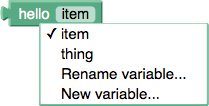
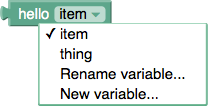
Fix path issue in CSS. Fix deletion ofter drag to flyout (issue 125). Fix 'create do procedure' with arguments (issue 123). Update wiki images with new dropdown arrows. Review URL: https://codereview.appspot.com/7772043

diff --git a/trunk/blockly_compressed.js b/trunk/blockly_compressed.js
@@ -666,8 +666,8 @@ b.comment.isPinned()&&b.comment.setVisible(!0)}return a};Blockly.ConnectionDB=fu
 Blockly.ConnectionDB.prototype.removeConnection_=function(a){if(!a.inDB_)throw"Connection not in database.";a.inDB_=!1;for(var b=0,c=this.length-2,d=c;b<d;)this[d].y_<a.y_?b=d:c=d,d=Math.floor((b+c)/2);for(c=b=d;0<=b&&this[b].y_==a.y_;){if(this[b]==a){this.splice(b,1);return}b--}do{if(this[c]==a){this.splice(c,1);return}c++}while(c<this.length&&this[c].y_==a.y_);throw"Unable to find connection in connectionDB.";};
 Blockly.ConnectionDB.init=function(a){var b=[];b[Blockly.INPUT_VALUE]=new Blockly.ConnectionDB;b[Blockly.OUTPUT_VALUE]=new Blockly.ConnectionDB;b[Blockly.NEXT_STATEMENT]=new Blockly.ConnectionDB;b[Blockly.PREVIOUS_STATEMENT]=new Blockly.ConnectionDB;a.connectionDBList=b};Blockly.Field=function(a){this.sourceBlock_=null;this.group_=Blockly.createSvgElement("g",{},null);this.borderRect_=Blockly.createSvgElement("rect",{rx:4,ry:4,x:-Blockly.BlockSvg.SEP_SPACE_X/2,y:-12,height:16},this.group_);this.textElement_=Blockly.createSvgElement("text",{"class":"blocklyText"},this.group_);this.CURSOR&&(this.group_.style.cursor=this.CURSOR);this.size_={height:25,width:0};this.setText(a)};Blockly.Field.NBSP="\u00a0";Blockly.Field.prototype.EDITABLE=!0;
 Blockly.Field.prototype.init=function(a){if(this.sourceBlock_)throw"Field has already been initialized once.";this.sourceBlock_=a;this.group_.setAttribute("class",a.editable?"blocklyEditableText":"blocklyNonEditableText");a.getSvgRoot().appendChild(this.group_);a.editable&&(this.mouseUpWrapper_=Blockly.bindEvent_(this.group_,"mouseup",this,this.onMouseUp_));this.setText(null)};
-Blockly.Field.prototype.dispose=function(){this.mouseUpWrapper_&&(Blockly.unbindEvent_(this.mouseUpWrapper_),this.mouseUpWrapper_=null);this.sourceBlock_=null;goog.dom.removeNode(this.group_);this.borderRect_=this.textElement_=this.group_=null};Blockly.Field.prototype.setVisible=function(a){this.getRootElement().style.display=a?"block":"none"};Blockly.Field.prototype.getRootElement=function(){return this.group_};Blockly.Field.textLengthCache={};
-Blockly.Field.prototype.render_=function(){if(Blockly.Field.textLengthCache.hasOwnProperty(this.text_))var a=Blockly.Field.textLengthCache[this.text_];else(a=this.textElement_.getComputedTextLength())&&(Blockly.Field.textLengthCache[this.text_]=a);this.borderRect_&&this.borderRect_.setAttribute("width",a+Blockly.BlockSvg.SEP_SPACE_X);this.size_.width=a};Blockly.Field.prototype.getSize=function(){this.size_.width||this.render_();return this.size_};Blockly.Field.prototype.getText=function(){return this.text_};
+Blockly.Field.prototype.dispose=function(){this.mouseUpWrapper_&&(Blockly.unbindEvent_(this.mouseUpWrapper_),this.mouseUpWrapper_=null);this.sourceBlock_=null;goog.dom.removeNode(this.group_);this.borderRect_=this.textElement_=this.group_=null};Blockly.Field.prototype.setVisible=function(a){this.getRootElement().style.display=a?"block":"none"};Blockly.Field.prototype.getRootElement=function(){return this.group_};
+Blockly.Field.prototype.render_=function(){var a=this.textElement_.getComputedTextLength();this.borderRect_&&this.borderRect_.setAttribute("width",a+Blockly.BlockSvg.SEP_SPACE_X);this.size_.width=a};Blockly.Field.prototype.getSize=function(){this.size_.width||this.render_();return this.size_};Blockly.Field.prototype.getText=function(){return this.text_};
 Blockly.Field.prototype.setText=function(a){null!==a&&(this.text_=a,goog.dom.removeChildren(this.textElement_),a=a.replace(/\s/g,Blockly.Field.NBSP),a||(a=Blockly.Field.NBSP),a=document.createTextNode(a),this.textElement_.appendChild(a),this.size_.width=0,this.sourceBlock_&&this.sourceBlock_.rendered&&(this.sourceBlock_.render(),this.sourceBlock_.bumpNeighbours_(),this.sourceBlock_.workspace.fireChangeEvent()))};Blockly.Field.prototype.getValue=function(){return this.getText()};
 Blockly.Field.prototype.setValue=function(a){this.setText(a)};Blockly.Field.prototype.onMouseUp_=function(a){Blockly.isRightButton(a)||2!=Blockly.Block.dragMode_&&this.showEditor_()};Blockly.Field.prototype.setTooltip=function(){};Blockly.Tooltip={};Blockly.Tooltip.visible=!1;Blockly.Tooltip.mouseOutPid_=0;Blockly.Tooltip.showPid_=0;Blockly.Tooltip.lastX_=0;Blockly.Tooltip.lastY_=0;Blockly.Tooltip.element_=null;Blockly.Tooltip.poisonedElement_=null;Blockly.Tooltip.svgGroup_=null;Blockly.Tooltip.svgText_=null;Blockly.Tooltip.svgBackground_=null;Blockly.Tooltip.svgShadow_=null;Blockly.Tooltip.OFFSET_X=0;Blockly.Tooltip.OFFSET_Y=10;Blockly.Tooltip.RADIUS_OK=10;Blockly.Tooltip.HOVER_MS=1E3;Blockly.Tooltip.MARGINS=5;
 Blockly.Tooltip.createDom=function(){var a=Blockly.createSvgElement("g",{"class":"blocklyHidden"},null);Blockly.Tooltip.svgGroup_=a;Blockly.Tooltip.svgShadow_=Blockly.createSvgElement("rect",{"class":"blocklyTooltipShadow",x:2,y:2},a);Blockly.Tooltip.svgBackground_=Blockly.createSvgElement("rect",{"class":"blocklyTooltipBackground"},a);Blockly.Tooltip.svgText_=Blockly.createSvgElement("text",{"class":"blocklyTooltipText"},a);return a};
@@ -718,7 +718,7 @@ Blockly.ContextMenu.show=function(a,b,c){if(c.length){goog.dom.removeChildren(Bl
 null,Blockly.noEvent);g.enabled?(Blockly.bindEvent_(h,"mouseup",null,g.callback),Blockly.bindEvent_(h,"mouseup",null,Blockly.ContextMenu.hide)):h.setAttribute("class","blocklyMenuDivDisabled");d=Math.max(d,k.getComputedTextLength())}d+=2*Blockly.ContextMenu.X_PADDING;for(f=0;f<e.length;f++)e[f].setAttribute("width",d);if(Blockly.RTL)for(f=0;h=Blockly.ContextMenu.svgOptions.childNodes[f];f++)k=h.lastChild,k.setAttribute("text-anchor","end"),k.setAttribute("x",d-Blockly.ContextMenu.X_PADDING);Blockly.ContextMenu.svgBackground.setAttribute("height",
 c.length*Blockly.ContextMenu.Y_HEIGHT+8);Blockly.ContextMenu.svgShadow.setAttribute("height",c.length*Blockly.ContextMenu.Y_HEIGHT+10);b=Blockly.convertCoordinates(a,b,!0);a=b.x;b=b.y;c=Blockly.ContextMenu.svgGroup.getBBox();d=Blockly.svgSize();b+c.height>d.height&&(b-=c.height-10);Blockly.RTL?0>=a-c.width?a++:a-=c.width:a+c.width>d.width?a-=c.width:a++;Blockly.ContextMenu.svgGroup.setAttribute("transform","translate("+a+", "+b+")");Blockly.ContextMenu.visible=!0}else Blockly.ContextMenu.hide()};
 Blockly.ContextMenu.optionToDom=function(a){var b=Blockly.createSvgElement("g",{"class":"blocklyMenuDiv"},null);Blockly.createSvgElement("rect",{height:Blockly.ContextMenu.Y_HEIGHT},b);var c=Blockly.createSvgElement("text",{"class":"blocklyMenuText",x:Blockly.ContextMenu.X_PADDING,y:15},b);a=document.createTextNode(a);c.appendChild(a);return b};Blockly.ContextMenu.hide=function(){Blockly.ContextMenu.visible&&(Blockly.ContextMenu.svgGroup.style.display="none",Blockly.ContextMenu.visible=!1)};
-Blockly.ContextMenu.callbackFactory=function(a,b,c,d){return function(){var e=new Blockly.Block(a.workspace,b);e.setTitleValue(d,c);e.initSvg();e.render();var f=a.getRelativeToSurfaceXY();f.x=Blockly.RTL?f.x-Blockly.SNAP_RADIUS:f.x+Blockly.SNAP_RADIUS;f.y+=2*Blockly.SNAP_RADIUS;e.moveBy(f.x,f.y);e.select()}};Blockly.Warning=function(a){this.block_=a;this.createIcon_()};Blockly.Warning.ICON_RADIUS=8;Blockly.Warning.prototype.bubble_=null;Blockly.Warning.prototype.text_="";Blockly.Warning.prototype.iconX_=0;Blockly.Warning.prototype.iconY_=0;
+Blockly.ContextMenu.callbackFactory=function(a,b){return function(){var c=Blockly.Xml.domToBlock_(a.workspace,b),d=a.getRelativeToSurfaceXY();d.x=Blockly.RTL?d.x-Blockly.SNAP_RADIUS:d.x+Blockly.SNAP_RADIUS;d.y+=2*Blockly.SNAP_RADIUS;c.moveBy(d.x,d.y);c.select()}};Blockly.Warning=function(a){this.block_=a;this.createIcon_()};Blockly.Warning.ICON_RADIUS=8;Blockly.Warning.prototype.bubble_=null;Blockly.Warning.prototype.text_="";Blockly.Warning.prototype.iconX_=0;Blockly.Warning.prototype.iconY_=0;
 Blockly.Warning.prototype.createIcon_=function(){this.iconGroup_=Blockly.createSvgElement("g",{"class":"blocklyIconGroup"},null);Blockly.createSvgElement("path",{"class":"blocklyIconShield",d:"M 2,15 Q -1,15 0.5,12 L 6.5,1.7 Q 8,-1 9.5,1.7 L 15.5,12 Q 17,15 14,15 z"},this.iconGroup_);this.iconMark_=Blockly.createSvgElement("text",{"class":"blocklyIconMark",x:Blockly.Warning.ICON_RADIUS,y:2*Blockly.Warning.ICON_RADIUS-3},this.iconGroup_);this.iconMark_.appendChild(document.createTextNode("!"));this.block_.getSvgRoot().appendChild(this.iconGroup_);
 Blockly.bindEvent_(this.iconGroup_,"mouseup",this,this.iconClick_)};Blockly.Warning.prototype.textToDom_=function(a){var b=Blockly.createSvgElement("text",{"class":"blocklyText",y:Blockly.Bubble.BORDER_WIDTH},null);a=a.split("\n");for(var c=0;c<a.length;c++){var d=Blockly.createSvgElement("tspan",{dy:"1em",x:Blockly.Bubble.BORDER_WIDTH},b),e=document.createTextNode(a[c]);d.appendChild(e)}return b};Blockly.Warning.prototype.isVisible=function(){return!!this.bubble_};
 Blockly.Warning.prototype.setVisible=function(a){if(a!=this.isVisible())if(a){a=this.textToDom_(this.text_);this.bubble_=new Blockly.Bubble(this.block_.workspace,a,this.block_.svg_.svgGroup_,this.iconX_,this.iconY_,null,null);if(Blockly.RTL)for(var b=a.getBBox().width,c=0,d;d=a.childNodes[c];c++)d.setAttribute("text-anchor","end"),d.setAttribute("x",b+Blockly.Bubble.BORDER_WIDTH);this.updateColour();a=this.bubble_.getBubbleSize();this.bubble_.setBubbleSize(a.width,a.height)}else this.bubble_.dispose(),
@@ -773,7 +773,7 @@ Blockly.Generator.workspaceToCode=function(a){var b=[];a=Blockly.Generator.get(a
 Blockly.Generator.allNestedComments=function(a){var b=[];a=a.getDescendants();for(var c=0;c<a.length;c++){var d=a[c].getCommentText();d&&b.push(d)}b.length&&b.push("");return b.join("\n")};Blockly.CodeGenerator=function(a){this.name_=a;this.RESERVED_WORDS_=""};
 Blockly.CodeGenerator.prototype.blockToCode=function(a){if(!a)return"";if(a.disabled)return a=a.nextConnection&&a.nextConnection.targetBlock(),this.blockToCode(a);var b=this[a.type];if(!b)throw'Language "'+this.name_+'" does not know how to generate code for block type "'+a.type+'".';b=b.call(a);return b instanceof Array?[this.scrub_(a,b[0]),b[1]]:this.scrub_(a,b)};
 Blockly.CodeGenerator.prototype.valueToCode=function(a,b,c){if(isNaN(c))throw'Expecting valid order from block "'+a.type+'".';a=a.getInputTargetBlock(b);if(!a)return"";var d=this.blockToCode(a);if(""===d)return"";if(!(d instanceof Array))throw'Expecting tuple from value block "'+a.type+'".';b=d[0];d=d[1];if(isNaN(d))throw'Expecting valid order from value block "'+a.type+'".';b&&c<=d&&(b="("+b+")");return b};
-Blockly.CodeGenerator.prototype.statementToCode=function(a,b){var c=a.getInputTargetBlock(b),d=this.blockToCode(c);if(!goog.isString(d))throw'Expecting code from statement block "'+c.type+'".';d&&(d=Blockly.Generator.prefixLines(d,"  "));return d};Blockly.CodeGenerator.prototype.addReservedWords=function(a){this.RESERVED_WORDS_+=a+","};Blockly.Css={};Blockly.Css.inject=function(){var a=Blockly.Css.CONTENT.join("\n"),a=a.replace(/<<<PATH>>>/g,Blockly.pathToBlockly);goog.cssom.addCssText(a)};
+Blockly.CodeGenerator.prototype.statementToCode=function(a,b){var c=a.getInputTargetBlock(b),d=this.blockToCode(c);if(!goog.isString(d))throw'Expecting code from statement block "'+c.type+'".';d&&(d=Blockly.Generator.prefixLines(d,"  "));return d};Blockly.CodeGenerator.prototype.addReservedWords=function(a){this.RESERVED_WORDS_+=a+","};Blockly.Css={};Blockly.Css.inject=function(){var a=Blockly.Css.CONTENT.join("\n");Blockly.pathToBlockly.replace(/[\\\/]$/,"");a=a.replace(/<<<PATH>>>/g,Blockly.pathToBlockly);goog.cssom.addCssText(a)};
 Blockly.Css.CONTENT=[".blocklySvg {","  background-color: #fff;","}",".blocklyWidgetDiv {","  position: absolute;","  display: none;","  z-index: 999;","}",".blocklyDraggable {","  /* Hotspot coordinates are baked into the CUR file, but they are still","     required in the CSS due to a Chrome bug.","     http://code.google.com/p/chromium/issues/detail?id=1446 */","  cursor: url(<<<PATH>>>/media/handopen.cur) 8 5, auto;","}",".blocklyResizeSE {","  fill: #aaa;","  cursor: se-resize;","}",".blocklyResizeSW {",
 "  fill: #aaa;","  cursor: sw-resize;","}",".blocklyResizeLine {","  stroke-width: 1;","  stroke: #888;","}",".blocklyHighlightedConnectionPath {","  stroke-width: 4px;","  stroke: #fc3;","  fill: none;","}",".blocklyPathLight {","  fill: none;","  stroke-width: 2;","  stroke-linecap: round;","}",".blocklySelected>.blocklyPath {","  stroke-width: 3px;","  stroke: #fc3;","}",".blocklySelected>.blocklyPathLight {","  display: none;","}",".blocklyDragging>.blocklyPath,",".blocklyDragging>.blocklyPathLight {",
 "  fill-opacity: 0.8;","  stroke-opacity: 0.8;","}",".blocklyDragging>.blocklyPathDark {","  display: none;","}",".blocklyDisabled>.blocklyPath {","  fill-opacity: 0.50;","  stroke-opacity: 0.50;","}",".blocklyDisabled>.blocklyPathLight,",".blocklyDisabled>.blocklyPathDark {","  display: none;","}",".blocklyText {","  cursor: default;","  font-family: sans-serif;","  font-size: 11pt;","  fill: #fff;","}",".blocklyNonEditableText>text {","  pointer-events: none;","}",".blocklyNonEditableText>rect,",
@@ -793,10 +793,10 @@ Blockly.parseOptions_=function(a){var b=!a.readOnly;if(b){var c=a.toolbox||"<xml
 Blockly.createDom_=function(a){a.setAttribute("dir","LTR");goog.ui.Component.setDefaultRightToLeft(Blockly.RTL);Blockly.Css.inject();var b=Blockly.createSvgElement("svg",{xmlns:"http://www.w3.org/2000/svg","xmlns:html":"http://www.w3.org/1999/xhtml","xmlns:xlink":"http://www.w3.org/1999/xlink",version:"1.1","class":"blocklySvg"},null),c=Blockly.createSvgElement("defs",{},b),d,e;d=Blockly.createSvgElement("filter",{id:"blocklyEmboss"},c);Blockly.createSvgElement("feGaussianBlur",{"in":"SourceAlpha",
 stdDeviation:1,result:"blur"},d);e=Blockly.createSvgElement("feSpecularLighting",{"in":"blur",surfaceScale:1,specularConstant:0.5,specularExponent:10,"lighting-color":"white",result:"specOut"},d);Blockly.createSvgElement("fePointLight",{x:-5E3,y:-1E4,z:2E4},e);Blockly.createSvgElement("feComposite",{"in":"specOut",in2:"SourceAlpha",operator:"in",result:"specOut"},d);Blockly.createSvgElement("feComposite",{"in":"SourceGraphic",in2:"specOut",operator:"arithmetic",k1:0,k2:1,k3:1,k4:0},d);d=Blockly.createSvgElement("filter",
 {id:"blocklyTrashcanShadowFilter"},c);Blockly.createSvgElement("feGaussianBlur",{"in":"SourceAlpha",stdDeviation:2,result:"blur"},d);Blockly.createSvgElement("feOffset",{"in":"blur",dx:1,dy:1,result:"offsetBlur"},d);d=Blockly.createSvgElement("feMerge",{},d);Blockly.createSvgElement("feMergeNode",{"in":"offsetBlur"},d);Blockly.createSvgElement("feMergeNode",{"in":"SourceGraphic"},d);d=Blockly.createSvgElement("filter",{id:"blocklyShadowFilter"},c);Blockly.createSvgElement("feGaussianBlur",{stdDeviation:2},
-d);c=Blockly.createSvgElement("pattern",{id:"blocklyDisabledPattern",patternUnits:"userSpaceOnUse",width:10,height:10},c);Blockly.createSvgElement("rect",{width:10,height:10,fill:"#aaa"},c);Blockly.createSvgElement("path",{d:"M 0 0 L 10 10 M 10 0 L 0 10",stroke:"#cc0"},c);Blockly.mainWorkspace=new Blockly.Workspace(Blockly.editable);b.appendChild(Blockly.mainWorkspace.createDom());Blockly.mainWorkspace.maxBlocks=Blockly.maxBlocks;Blockly.editable?Blockly.Toolbox?Blockly.Toolbox.createDom(b,a):(Blockly.mainWorkspace.flyout_=
-new Blockly.Flyout,c=Blockly.mainWorkspace.flyout_.createDom(),Blockly.mainWorkspace.flyout_.init(Blockly.mainWorkspace,Blockly.getMainWorkspaceMetrics,!0),Blockly.mainWorkspace.flyout_.autoClose=!1,goog.dom.insertSiblingBefore(c,Blockly.mainWorkspace.svgGroup_),Blockly.bindEvent_(Blockly.mainWorkspace.getCanvas(),"blocklyWorkspaceChange",Blockly.mainWorkspace,function(){if(0==Blockly.Block.dragMode_)for(var a=Blockly.getTopBlocks(!1),b=Blockly.svgSize(),c=0,d;d=a[c];c++){var e=d.getRelativeToSurfaceXY(),
-l=d.getSvgRoot().getBBox();(e.y<10-l.height||(Blockly.RTL?e.x>b.width-Blockly.flyout_.width_+10:e.x<Blockly.flyout_.width_-10)||e.y>b.height-10||(Blockly.RTL?10>e.x:e.x>b.width-10))&&d.dispose(!1,!0)}})):(delete Blockly.Toolbox,delete Blockly.Flyout);Blockly.Tooltip&&b.appendChild(Blockly.Tooltip.createDom());Blockly.editable&&Blockly.FieldDropdown&&b.appendChild(Blockly.FieldDropdown.createDom());Blockly.ContextMenu&&Blockly.ContextMenu&&b.appendChild(Blockly.ContextMenu.createDom());a.appendChild(b);
-Blockly.svg=b;Blockly.svgResize();Blockly.widgetDiv=goog.dom.createDom("div",{"class":"blocklyWidgetDiv"});a.appendChild(Blockly.widgetDiv)};
+d);c=Blockly.createSvgElement("pattern",{id:"blocklyDisabledPattern",patternUnits:"userSpaceOnUse",width:10,height:10},c);Blockly.createSvgElement("rect",{width:10,height:10,fill:"#aaa"},c);Blockly.createSvgElement("path",{d:"M 0 0 L 10 10 M 10 0 L 0 10",stroke:"#cc0"},c);Blockly.mainWorkspace=new Blockly.Workspace(Blockly.editable);b.appendChild(Blockly.mainWorkspace.createDom());Blockly.mainWorkspace.maxBlocks=Blockly.maxBlocks;if(Blockly.editable)if(Blockly.Toolbox)Blockly.Toolbox.createDom(b,
+a);else{Blockly.mainWorkspace.flyout_=new Blockly.Flyout;var f=Blockly.mainWorkspace.flyout_,c=f.createDom();f.init(Blockly.mainWorkspace,Blockly.getMainWorkspaceMetrics,!0);f.autoClose=!1;goog.dom.insertSiblingBefore(c,Blockly.mainWorkspace.svgGroup_);Blockly.bindEvent_(Blockly.mainWorkspace.getCanvas(),"blocklyWorkspaceChange",Blockly.mainWorkspace,function(){if(0==Blockly.Block.dragMode_)for(var a=Blockly.svgSize(),b=Blockly.mainWorkspace.getTopBlocks(!1),c=0,d;d=b[c];c++){var e=d.getRelativeToSurfaceXY(),
+m=d.getSvgRoot().getBBox();(e.y<10-m.height||(Blockly.RTL?e.x>a.width-f.width_+10:e.x<f.width_-10)||e.y>a.height-10||(Blockly.RTL?10>e.x:e.x>a.width-10))&&d.dispose(!1,!0)}})}else delete Blockly.Toolbox,delete Blockly.Flyout;Blockly.Tooltip&&b.appendChild(Blockly.Tooltip.createDom());Blockly.editable&&Blockly.FieldDropdown&&b.appendChild(Blockly.FieldDropdown.createDom());Blockly.ContextMenu&&Blockly.ContextMenu&&b.appendChild(Blockly.ContextMenu.createDom());a.appendChild(b);Blockly.svg=b;Blockly.svgResize();
+Blockly.widgetDiv=goog.dom.createDom("div",{"class":"blocklyWidgetDiv"});a.appendChild(Blockly.widgetDiv)};
 Blockly.init_=function(){Blockly.bindEvent_(window,"resize",document,Blockly.svgResize);Blockly.bindEvent_(Blockly.svg,"mousedown",null,Blockly.onMouseDown_);Blockly.bindEvent_(document,"mouseup",null,Blockly.onMouseUp_);Blockly.bindEvent_(Blockly.svg,"mousemove",null,Blockly.onMouseMove_);Blockly.bindEvent_(Blockly.svg,"contextmenu",null,Blockly.onContextMenu_);Blockly.bindEvent_(document,"keydown",null,Blockly.onKeyDown_);var a=!0;Blockly.languageTree&&(Blockly.Toolbox?Blockly.Toolbox.init():Blockly.Flyout&&
 (Blockly.mainWorkspace.flyout_.init(Blockly.mainWorkspace,Blockly.getMainWorkspaceMetrics,!0),Blockly.mainWorkspace.flyout_.show(Blockly.languageTree.childNodes),a=!1));a&&(Blockly.mainWorkspace.scrollbar=new Blockly.ScrollbarPair(Blockly.mainWorkspace.getBubbleCanvas(),Blockly.getMainWorkspaceMetrics,Blockly.setMainWorkspaceMetrics));Blockly.mainWorkspace.addTrashcan(Blockly.getMainWorkspaceMetrics);Blockly.loadAudio_("click");Blockly.loadAudio_("delete")};Blockly.FieldCheckbox=function(a,b){Blockly.FieldCheckbox.superClass_.constructor.call(this,"");this.changeHandler_=b;this.checkElement_=Blockly.createSvgElement("text",{"class":"blocklyText",x:-3},this.group_);var c=document.createTextNode("\u2713");this.checkElement_.appendChild(c);this.setValue(a)};goog.inherits(Blockly.FieldCheckbox,Blockly.Field);Blockly.FieldCheckbox.prototype.CURSOR="default";Blockly.FieldCheckbox.prototype.getValue=function(){return String(this.state_).toUpperCase()};
 Blockly.FieldCheckbox.prototype.setValue=function(a){a="TRUE"==a;this.state_!==a&&(this.state_=a,this.checkElement_.style.display=a?"block":"none",this.sourceBlock_&&this.sourceBlock_.rendered&&this.sourceBlock_.workspace.fireChangeEvent())};Blockly.FieldCheckbox.prototype.showEditor_=function(){var a=!this.state_;if(this.changeHandler_){var b=this.changeHandler_(a);void 0!==b&&(a=b)}null!==a&&this.setValue(String(a).toUpperCase())};Blockly.FieldColour=function(a,b){Blockly.FieldColour.superClass_.constructor.call(this,"\u00a0\u00a0\u00a0");this.changeHandler_=b;this.borderRect_.style.fillOpacity=1;this.setValue(a)};goog.inherits(Blockly.FieldColour,Blockly.Field);Blockly.FieldColour.isOpen_=!1;Blockly.FieldColour.prototype.CURSOR="default";Blockly.FieldColour.prototype.getValue=function(){return this.colour_};

diff --git a/trunk/core/inject.js b/trunk/core/inject.js
@@ -200,7 +200,6 @@ Blockly.createDom_ = function(container) {
     // Determine if there needs to be a category tree, or a simple list of
     // blocks.  This cannot be changed later, since the UI is very different.
     if (Blockly.Toolbox) {
-      // TODO(scr): When Toolbox is a component, remove this line.
       Blockly.Toolbox.createDom(svg, container);
     } else {
       /**
@@ -208,25 +207,26 @@ Blockly.createDom_ = function(container) {
        * @private
        */
       Blockly.mainWorkspace.flyout_ = new Blockly.Flyout();
-      var flyoutSvg = Blockly.mainWorkspace.flyout_.createDom();
-      Blockly.mainWorkspace.flyout_.init(Blockly.mainWorkspace,
+      var flyout = Blockly.mainWorkspace.flyout_;
+      var flyoutSvg = flyout.createDom();
+      flyout.init(Blockly.mainWorkspace,
           Blockly.getMainWorkspaceMetrics, true);
-      Blockly.mainWorkspace.flyout_.autoClose = false;
+      flyout.autoClose = false;
       // Insert the flyout behind the workspace so that blocks appear on top.
       goog.dom.insertSiblingBefore(flyoutSvg, Blockly.mainWorkspace.svgGroup_);
       var workspaceChanged = function() {
         // Delete any block that's sitting on top of the flyout, or off window.
         if (Blockly.Block.dragMode_ == 0) {
-          var blocks = Blockly.getTopBlocks(false);
           var svgSize = Blockly.svgSize();
           var MARGIN = 10;
+          var blocks = Blockly.mainWorkspace.getTopBlocks(false);
           for (var b = 0, block; block = blocks[b]; b++) {
             var xy = block.getRelativeToSurfaceXY();
             var bBox = block.getSvgRoot().getBBox();
             if ((xy.y < MARGIN - bBox.height) ||  // Off the top.
                 (Blockly.RTL ?
-                 xy.x > svgSize.width - Blockly.flyout_.width_ + MARGIN :
-                 xy.x < Blockly.flyout_.width_ - MARGIN) ||  // Over the flyout.
+                 xy.x > svgSize.width - flyout.width_ + MARGIN :
+                 xy.x < flyout.width_ - MARGIN) ||  // Over the flyout.
                 (xy.y > svgSize.height - MARGIN) ||  // Off the bottom.
                 (Blockly.RTL ? xy.x < MARGIN :
                  xy.x > svgSize.width - MARGIN)  // Off the far edge.

diff --git a/trunk/language/common/procedures.js b/trunk/language/common/procedures.js
@@ -163,16 +163,29 @@ Blockly.Language.procedures_defnoreturn = {
     var option = {enabled: true};
     var name = this.getTitleValue('NAME');
     option.text = Blockly.LANG_PROCEDURES_CREATE_DO.replace('%1', name);
-    option.callback = Blockly.ContextMenu.callbackFactory(this,
-        this.callType_, 'NAME', name);
+
+    var xmlMutation = goog.dom.createDom('mutation');
+    xmlMutation.setAttribute('name', name);
+    for (var x = 0; x < this.arguments_.length; x++) {
+      var xmlArg = goog.dom.createDom('arg');
+      xmlArg.setAttribute('name', this.arguments_[x]);
+      xmlMutation.appendChild(xmlArg);
+    }
+    var xmlBlock = goog.dom.createDom('block', null, xmlMutation);
+    xmlBlock.setAttribute('type', this.callType_);
+    option.callback = Blockly.ContextMenu.callbackFactory(this, xmlBlock);
+
     options.push(option);
     // Add options to create getters for each parameter.
     for (var x = 0; x < this.arguments_.length; x++) {
       var option = {enabled: true};
       var name = this.arguments_[x];
       option.text = Blockly.LANG_VARIABLES_SET_CREATE_GET.replace('%1', name);
-      option.callback = Blockly.ContextMenu.callbackFactory(this,
-          'variables_get', 'VAR', name);
+      var xmlTitle = goog.dom.createDom('title', null, name);
+      xmlTitle.setAttribute('name', 'VAR');
+      var xmlBlock = goog.dom.createDom('block', null, xmlTitle);
+      xmlBlock.setAttribute('type', 'variables_get');
+      option.callback = Blockly.ContextMenu.callbackFactory(this, xmlBlock);
       options.push(option);
     }
   },

diff --git a/trunk/language/common/variables.js b/trunk/language/common/variables.js
@@ -48,12 +48,17 @@ Blockly.Language.variables_get = {
       this.setTitleValue(newName, 'VAR');
     }
   },
+  contextMenuMsg_: Blockly.LANG_VARIABLES_GET_CREATE_SET,
+  contextMenuType_: 'variables_set',
   customContextMenu: function(options) {
     var option = {enabled: true};
     var name = this.getTitleValue('VAR');
-    option.text = Blockly.LANG_VARIABLES_GET_CREATE_SET.replace('%1', name);
-    option.callback = Blockly.ContextMenu.callbackFactory(this,
-        'variables_set', 'VAR', name);
+    option.text = this.contextMenuMsg_.replace('%1', name);
+    var xmlTitle = goog.dom.createDom('title', null, name);
+    xmlTitle.setAttribute('name', 'VAR');
+    var xmlBlock = goog.dom.createDom('block', null, xmlTitle);
+    xmlBlock.setAttribute('type', 'variables_set');
+    option.callback = Blockly.ContextMenu.callbackFactory(this, xmlBlock);
     options.push(option);
   }
 };
@@ -80,12 +85,7 @@ Blockly.Language.variables_set = {
       this.setTitleValue(newName, 'VAR');
     }
   },
-  customContextMenu: function(options) {
-    var option = {enabled: true};
-    var name = this.getTitleValue('VAR');
-    option.text = Blockly.LANG_VARIABLES_SET_CREATE_GET.replace('%1', name);
-    option.callback = Blockly.ContextMenu.callbackFactory(this,
-        'variables_get', 'VAR', name);
-    options.push(option);
-  }
+  contextMenuMsg_: Blockly.LANG_VARIABLES_GET_CREATE_GET,
+  contextMenuType_: 'variables_get',
+  customContextMenu: Blockly.Language.variables_get.customContextMenu
 };

diff --git a/trunk/language/common/control.js b/trunk/language/common/control.js
@@ -305,8 +305,11 @@ Blockly.Language.controls_for = {
     var option = {enabled: true};
     var name = this.getTitleValue('VAR');
     option.text = Blockly.LANG_VARIABLES_SET_CREATE_GET.replace('%1', name);
-    option.callback = Blockly.ContextMenu.callbackFactory(this,
-        'variables_get', 'VAR', name);
+    var xmlTitle = goog.dom.createDom('title', null, name);
+    xmlTitle.setAttribute('name', 'VAR');
+    var xmlBlock = goog.dom.createDom('block', null, xmlTitle);
+    xmlBlock.setAttribute('type', 'variables_get');
+    option.callback = Blockly.ContextMenu.callbackFactory(this, xmlBlock);
     options.push(option);
   }
 };
@@ -340,14 +343,7 @@ Blockly.Language.controls_forEach = {
       this.setTitleValue(newName, 'VAR');
     }
   },
-  customContextMenu: function(options) {
-    var option = {enabled: true};
-    var name = this.getTitleValue('VAR');
-    option.text = Blockly.LANG_VARIABLES_SET_CREATE_GET.replace('%1', name);
-    option.callback = Blockly.ContextMenu.callbackFactory(this,
-        'variables_get', 'VAR', name);
-    options.push(option);
-  }
+  customContextMenu: Blockly.Language.controls_for.customContextMenu
 };
 
 Blockly.Language.controls_flow_statements = {

diff --git a/trunk/core/contextmenu.js b/trunk/core/contextmenu.js
@@ -207,16 +207,11 @@ Blockly.ContextMenu.hide = function() {
  * Create a callback function that creates and configures a block,
  *   then places the new block next to the original.
  * @param {!Blockly.Block} block Original block.
- * @param {string} type Type of new block.
- * @param {string} name Name of field to set.
- * @param {string} value Value to set in named field.
+ * @param {!Element} xml XML representation of new block.
  */
-Blockly.ContextMenu.callbackFactory = function(block, type, name, value) {
+Blockly.ContextMenu.callbackFactory = function(block, xml) {
   return function() {
-    var newBlock = new Blockly.Block(block.workspace, type);
-    newBlock.setTitleValue(value, name);
-    newBlock.initSvg();
-    newBlock.render();
+    var newBlock = Blockly.Xml.domToBlock_(block.workspace, xml);
     // Move the new block next to the old block.
     var xy = block.getRelativeToSurfaceXY();
     if (Blockly.RTL) {

diff --git a/trunk/core/css.js b/trunk/core/css.js
@@ -32,10 +32,12 @@ goog.require('goog.cssom');
  * file since:
  * a) It loads synchronously and doesn't force a redraw later.
  * b) It speeds up loading by not blocking on a separate HTTP transfer.
- * c) The CSS cantent may be made dynamic depenting on init options.
+ * c) The CSS cantent may be made dynamic depending on init options.
  */
 Blockly.Css.inject = function() {
   var text = Blockly.Css.CONTENT.join('\n');
+  // Strip off any trailing slash (either Unix or Windows).
+  var path = Blockly.pathToBlockly.replace(/[\\\/]$/, '');
   text = text.replace(/<<<PATH>>>/g, Blockly.pathToBlockly);
   goog.cssom.addCssText(text);
 };
